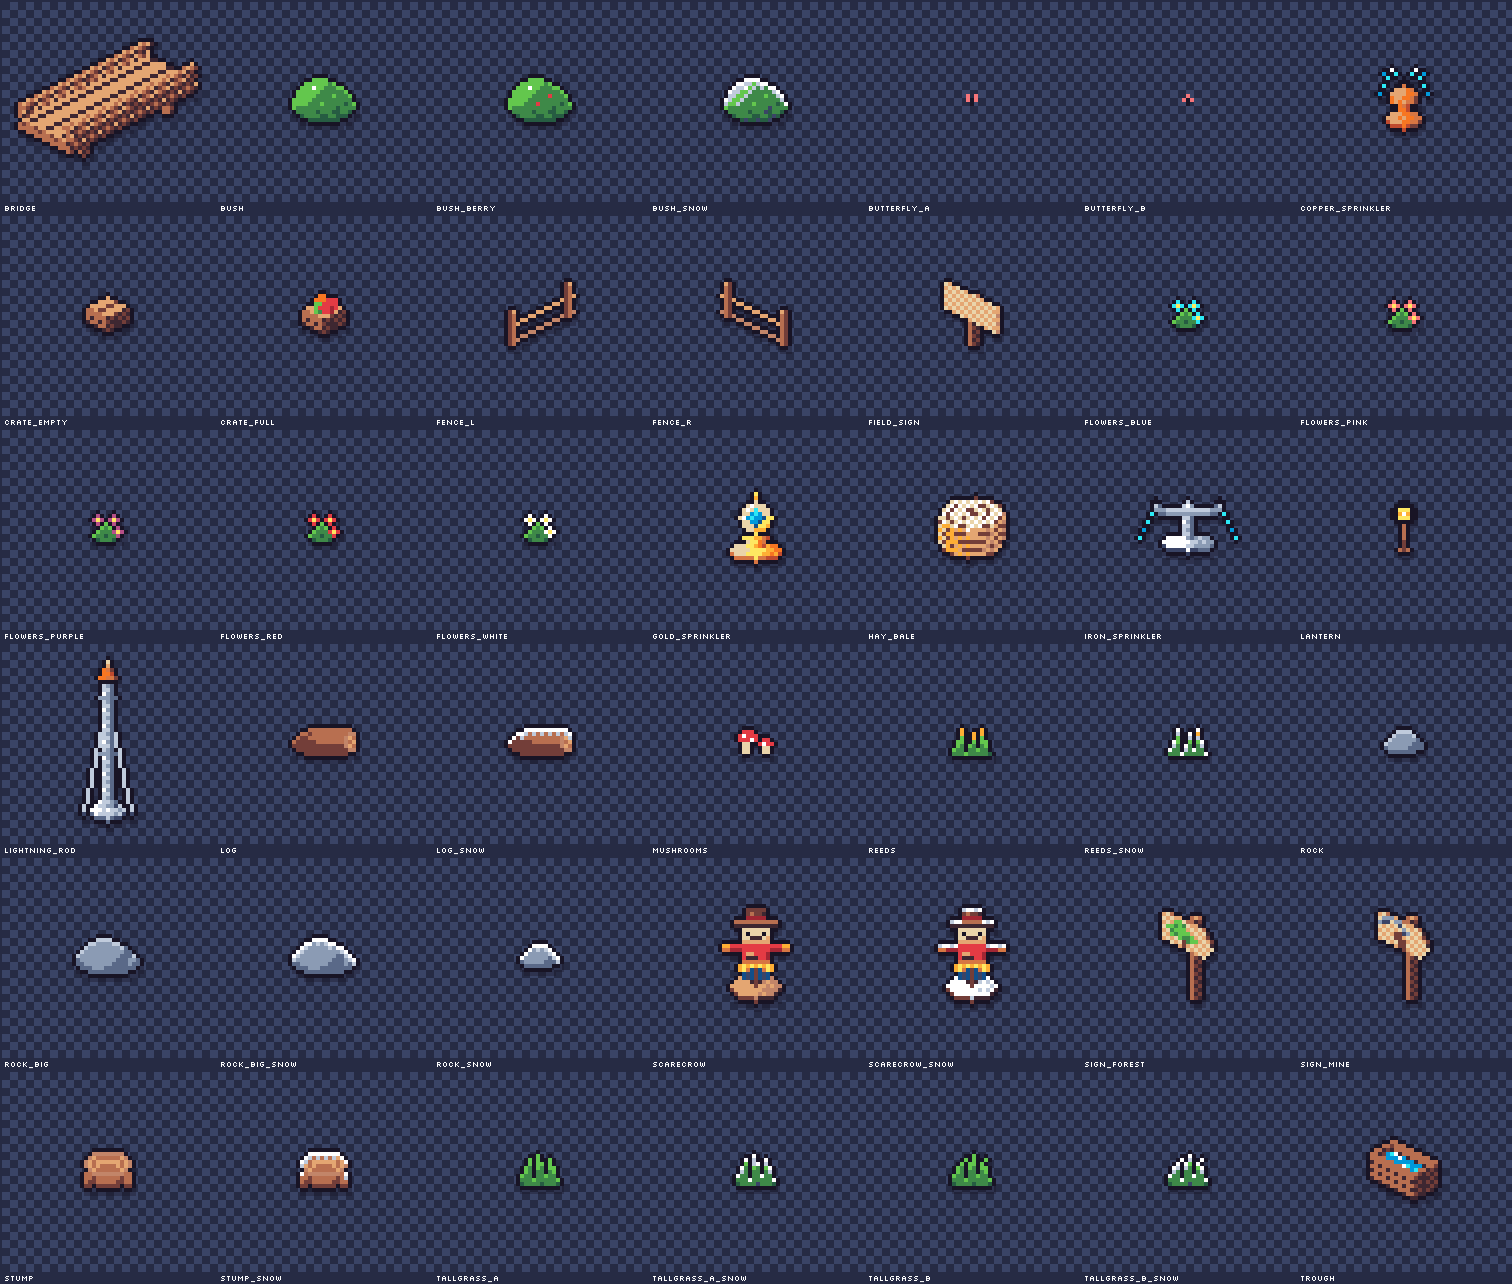
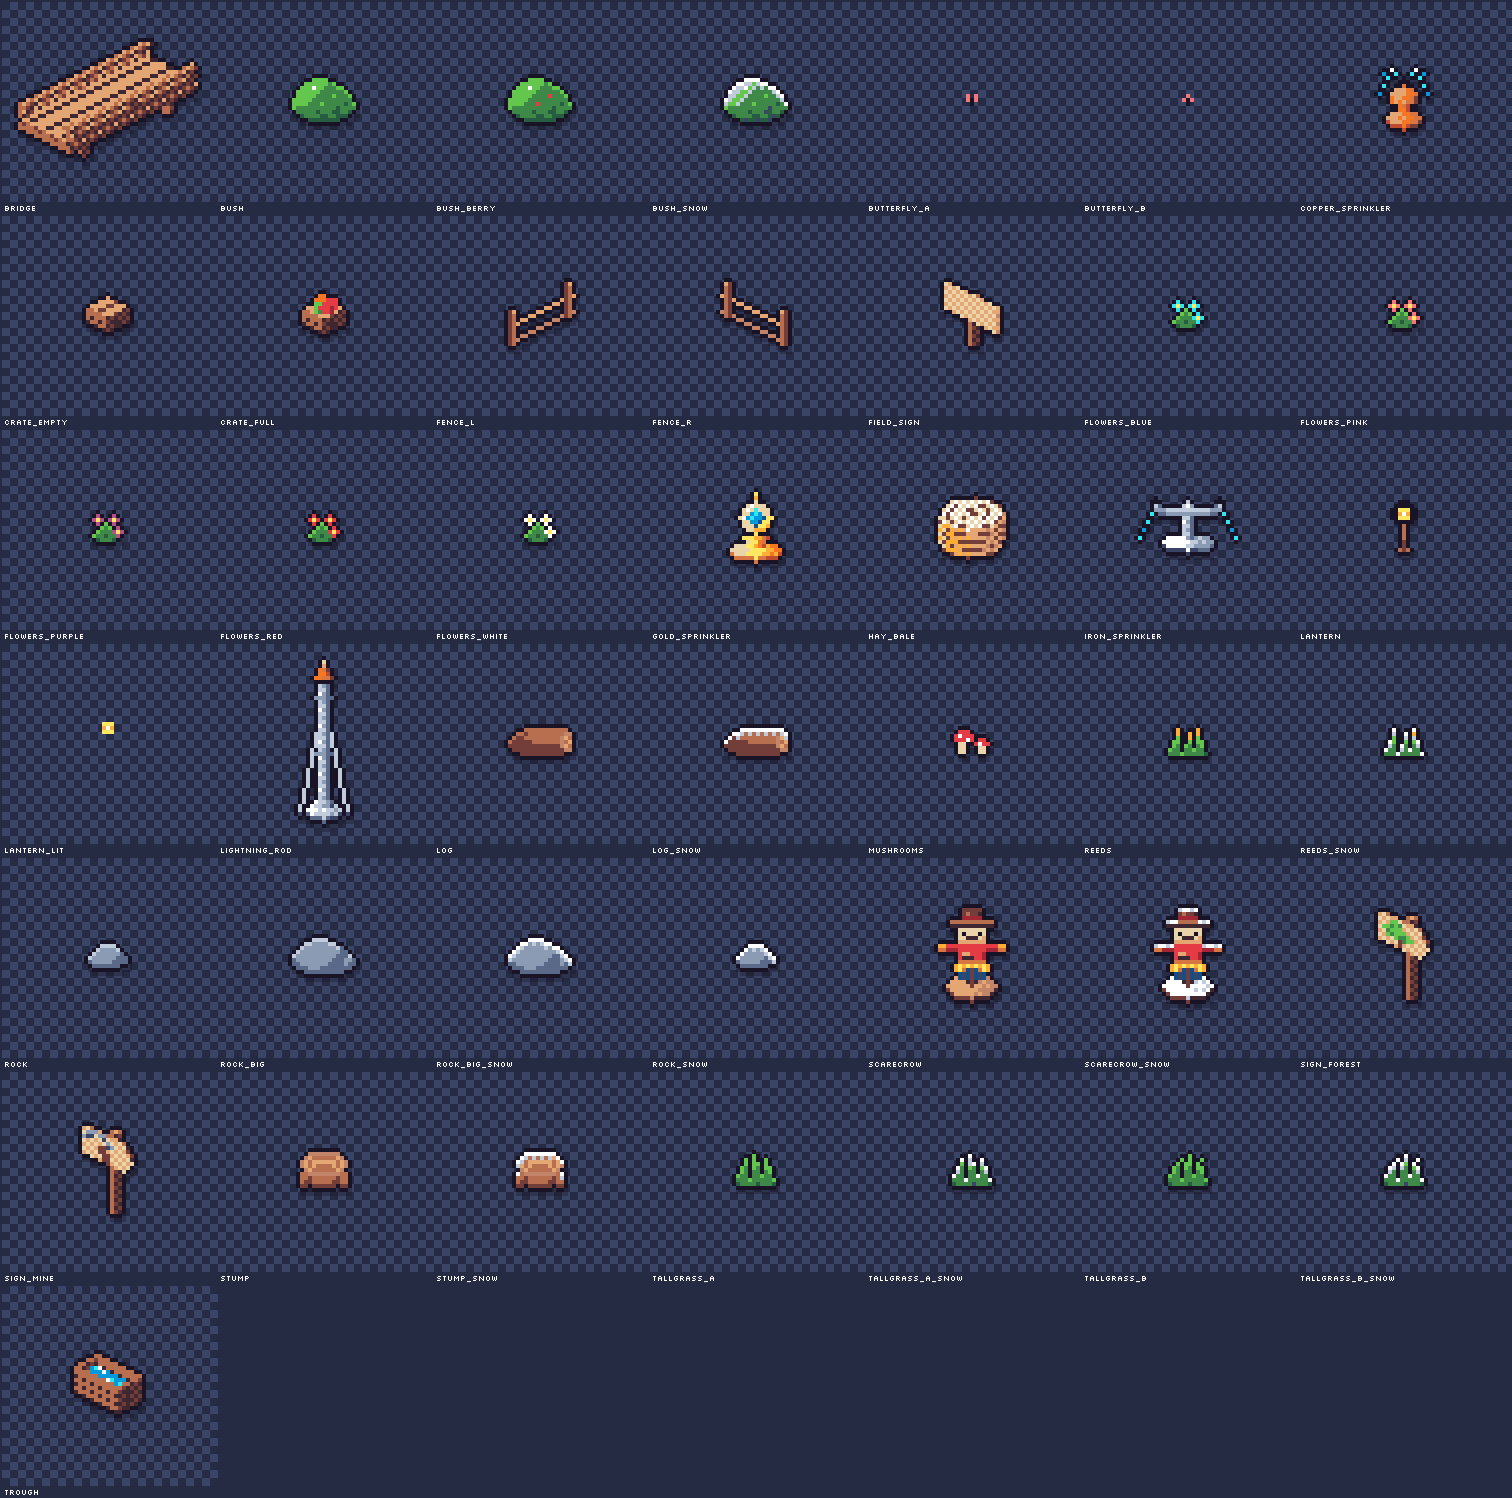
Playtest round 2 fixes: toasts wrap to two lines, field level and price on the sign board, small smooth lamp halos with lit lamp glass and windows drawn over the night (night.py overlays), build panel art below the title; round 2 decisions recorded
Claude-Session: https://claude.ai/code/session_01WzqNnDX2S9CAE6QnGepdXg

diff --git a/farm-game/app/src/main/kotlin/com/ditherfarm/ui/FarmScreen.kt b/farm-game/app/src/main/kotlin/com/ditherfarm/ui/FarmScreen.kt
@@ -393,10 +393,11 @@ class FarmScreen(game: Game) : IsoMapScreen(game, groundSeed = 31), WorldListene
             list.add(y) {
                 val g = game.gfx
                 g.sprite(if (game.assets.has("deco/field_sign")) "deco/field_sign" else "trees/signpost", x, y)
+                // Written on the board: the field's letter, or its level or price while it is not yours.
                 if (world.blockOwned(b)) g.text(FieldLayout.name(b), x.toInt(), (y - 15).toInt(), Gfx.WHITE, align = 0)
                 else {
                     val locked = world.level < FieldLayout.UNLOCK[b]
-                    g.text(if (locked) "L${FieldLayout.UNLOCK[b]}" else Ui.compact(FieldLayout.PRICE[b]), x.toInt(), (y - 26).toInt(), if (locked) Gfx.GREY else Gfx.GOLD, align = 0)
+                    g.text(if (locked) "L${FieldLayout.UNLOCK[b]}" else Ui.compact(FieldLayout.PRICE[b]), x.toInt(), (y - 15).toInt(), if (locked) 0xFFC0CBDC.toInt() else Gfx.GOLD, align = 0)
                 }
             }
         }
@@ -473,7 +474,22 @@ class FarmScreen(game: Game) : IsoMapScreen(game, groundSeed = 31), WorldListene
     }
 
     override fun worldLights(out: MutableList<Lighting.Light>) {
-        for ((c, r) in lanterns) out += Lighting.Light(Iso.x(c, r).toFloat(), Iso.centerY(c, r).toFloat() - 8, 28)
+        // A small halo round each lamp head; no pool painted on the ground.
+        for ((c, r) in lanterns) out += Lighting.Light(Iso.x(c, r).toFloat(), Iso.centerY(c, r).toFloat() - LAMP_HEAD, 9, round = true)
+    }
+
+    override fun drawEmissive(g: Gfx, night: Float) {
+        val a = (night * 255).toInt()
+        for ((c, r) in lanterns) {
+            val x = Iso.x(c, r).toFloat(); val y = Iso.centerY(c, r).toFloat()
+            if (inView(x, y)) g.sprite("deco/lantern_lit", x, y, a)
+        }
+        // Lit windows in the village and the bunkhouse.
+        val houses = FarmMap.COTTAGES.mapIndexed { k, t -> t to "buildings/cottage_" + "abc"[k % 3] } + (FarmMap.BUNKHOUSE to "buildings/cottage_c")
+        for ((t, sprite) in houses) {
+            val x = Iso.x(t.first, t.second).toFloat(); val y = Iso.centerY(t.first, t.second).toFloat()
+            if (inView(x, y, 48f) && game.assets.has("${sprite}_lit")) g.sprite("${sprite}_lit", x, y, a)
+        }
     }
 
     override fun drawHud(g: Gfx) {
@@ -826,6 +842,8 @@ class FarmScreen(game: Game) : IsoMapScreen(game, groundSeed = 31), WorldListene
         val GH_R0 = FarmMap.GREENHOUSE.second
         const val GH_WALL = 22f
         const val GREENHOUSE_LEVEL = 12
+        /** Height of a lantern's glass above its foot. */
+        const val LAMP_HEAD = 11f
         val MERCHANT_TILE = FarmMap.MERCHANT
         private fun key(c: Int, r: Int) = c.toLong() shl 32 or (r.toLong() and 0xFFFFFFFF)
     }

diff --git a/farm-game/app/src/main/kotlin/com/ditherfarm/engine/Atmosphere.kt b/farm-game/app/src/main/kotlin/com/ditherfarm/engine/Atmosphere.kt
@@ -39,7 +39,8 @@ class Lighting {
     /** Darkness 0..1 for a tint from [ambient], used to decide whether lamps are lit. */
     fun darkness(tint: Int): Float = (tint ushr 24) / 255f
 
-    class Light(var x: Float, var y: Float, var radius: Int, var warm: Boolean = true)
+    /** A light in buffer pixels; [round] lights are a halo in the air (lamp heads), the rest a pool on the ground. */
+    class Light(var x: Float, var y: Float, var radius: Int, var warm: Boolean = true, var round: Boolean = false)
 
     /**
      * Applies lighting to [target] (already holding the world). Lights are in buffer pixels.
@@ -51,13 +52,13 @@ class Lighting {
             val lc = ensure(w, h)
             lc.drawColor(tint, PorterDuff.Mode.SRC)
             if (dark > 0.25f) for (l in lights) {
-                val m = mask(l.radius)
+                val m = mask(l.radius, l.round)
                 lc.drawBitmap(m, l.x - l.radius, l.y - l.radius, cut)
             }
             target.drawBitmap(layer!!, 0f, 0f, plain)
             if (dark > 0.25f) for (l in lights) if (l.warm) {
-                glow.alpha = (22 * dark).toInt()
-                target.drawBitmap(mask(l.radius), l.x - l.radius, l.y - l.radius, glow)
+                glow.alpha = (40 * dark).toInt()
+                target.drawBitmap(mask(l.radius, l.round), l.x - l.radius, l.y - l.radius, glow)
             }
         }
         if (flash > 0f) {
@@ -79,20 +80,17 @@ class Lighting {
         return layerCanvas!!
     }
 
-    /** Round light with a Bayer-dithered falloff; opaque = full light. */
-    private fun mask(r: Int): Bitmap = lightMasks.getOrPut(r) {
+    /** Light with a smooth falloff (opaque = full light): a round halo, or iso-squashed to lie on the ground. */
+    private fun mask(r: Int, round: Boolean): Bitmap = lightMasks.getOrPut(if (round) -r else r) {
         val size = r * 2
         val b = Bitmap.createBitmap(size, size, Bitmap.Config.ARGB_8888)
-        val bayer = intArrayOf(0, 8, 2, 10, 12, 4, 14, 6, 3, 11, 1, 9, 15, 7, 13, 5)
         for (y in 0 until size) for (x in 0 until size) {
-            // Iso-squashed circle so pools of light sit flat on the ground.
             val dx = (x - r + 0.5f) / r
-            val dy = (y - r + 0.5f) / (r * 0.75f)
+            val dy = (y - r + 0.5f) / (if (round) r.toFloat() else r * 0.75f)
             val d = dx * dx + dy * dy
             if (d >= 1f) continue
-            val level = ((1f - d) * 22f).toInt()
-            val on = bayer[(y % 4) * 4 + (x % 4)] < level
-            if (on) b.setPixel(x, y, 0xFFFF9040.toInt())
+            val a = ((1f - d) * (1f - d) * 255f).toInt().coerceIn(0, 255)
+            b.setPixel(x, y, (a shl 24) or 0xFF9040)
         }
         b
     }

diff --git a/farm-game/app/src/main/kotlin/com/ditherfarm/ui/Hud.kt b/farm-game/app/src/main/kotlin/com/ditherfarm/ui/Hud.kt
@@ -28,7 +28,7 @@ class Hud(private val game: Game) {
     val topHeight = 34
     val bottomHeight = 46
 
-    fun toast(text: String) { toastText = text; toastTime = 2.2f }
+    fun toast(text: String) { toastText = text; toastTime = if (text.length > 34) 3.4f else 2.2f }
 
     /** Shows a tutorial tip once per save. */
     fun tip(key: String, text: String) {
@@ -116,12 +116,15 @@ class Hud(private val game: Game) {
         val tipLines = if (tip != null && tipVisible) wrap(tip, w - 40) else emptyList()
         val tipH = if (tipLines.isEmpty()) 0 else 12 + tipLines.size * 10 + 6
         // Toasts sit just above the nav bar (and above any tip), clear of HUD chips and panel titles.
+        // Long ones wrap (at most two lines) so nothing runs off the screen edges.
         toastText?.let { text ->
             if (toastTime > 0) {
-                val tw = g.textWidth(text) + 14
-                val y = h - game.engine.safeBottom - bottomHeight - tipLift - tipH - 18
-                ui.pill(w / 2 - tw / 2, y, tw, 14)
-                g.text(text, w / 2, y + 3, Gfx.WHITE, align = 0)
+                val lines = wrap(text, w - 36).take(2)
+                val tw = lines.maxOf { g.textWidth(it) } + 14
+                val th = 4 + lines.size * 10
+                val y = h - game.engine.safeBottom - bottomHeight - tipLift - tipH - 8 - th
+                ui.pill(w / 2 - tw / 2, y, tw, th)
+                lines.forEachIndexed { i, l -> g.text(l, w / 2, y + 3 + i * 10, Gfx.WHITE, align = 0) }
             }
         }
         if (tip != null && tipVisible) {

diff --git a/farm-game/app/src/main/kotlin/com/ditherfarm/ui/IsoMapScreen.kt b/farm-game/app/src/main/kotlin/com/ditherfarm/ui/IsoMapScreen.kt
@@ -81,6 +81,9 @@ abstract class IsoMapScreen(protected val game: Game, private val groundSeed: In
     /** Light sources in world pixels (lanterns, furnaces, mine lamps). Add new Light objects each call. */
     open fun worldLights(out: MutableList<Lighting.Light>) {}
 
+    /** Glowing parts drawn over the night tint in world space; [night] 0..1 is how dark it is. */
+    open fun drawEmissive(g: Gfx, night: Float) {}
+
     abstract fun drawHud(g: Gfx)
 
     /** World-pixel tap before tile picking (e.g. corners between plots); return true if handled. */
@@ -136,7 +139,17 @@ abstract class IsoMapScreen(protected val game: Game, private val groundSeed: In
             l.y = (l.y - cam.y) * cam.zoom
             l.radius *= cam.zoom
         }
-        lighting.apply(c, game.engine.w, game.engine.h, lighting.ambient(hour()), lights, weather.flash)
+        val tint = lighting.ambient(hour())
+        lighting.apply(c, game.engine.w, game.engine.h, tint, lights, weather.flash)
+        // Things that glow (lit windows, lamp glass) go over the night tint.
+        val night = ((lighting.darkness(tint) - 0.25f) / 0.4f).coerceIn(0f, 1f)
+        if (night > 0f) {
+            c.save()
+            c.translate((-cam.snapX() + shake).toFloat(), -cam.snapY().toFloat())
+            c.scale(cam.zoom.toFloat(), cam.zoom.toFloat())
+            drawEmissive(g, night)
+            c.restore()
+        }
         weather.draw(g, game.engine.w, game.engine.h)
         fx.drawText(g, { (it - cam.x) * cam.zoom }, { (it - cam.y) * cam.zoom })
 

diff --git a/farm-game/app/src/main/kotlin/com/ditherfarm/ui/Panels.kt b/farm-game/app/src/main/kotlin/com/ditherfarm/ui/Panels.kt
@@ -488,9 +488,11 @@ class Panels(private val game: Game, private val hud: Hud) {
     fun build(id: String): Boolean {
         val def = world.data.buildings[id] ?: return false
         val rows = def.cost.size
-        val (x, y, pw, ph) = frame("BUILD ${def.name.uppercase()}", 92 + rows * 14, pw = 210).toList()
+        // The art stands below the title; tall buildings (Windmill, Silo) make the panel taller.
+        val art = game.assets[buildingSprite(id)]
+        val (x, y, pw, ph) = frame("BUILD ${def.name.uppercase()}", maxOf(92 + rows * 14, 24 + art.bmp.height + 46), pw = 210).toList()
         if (closeButton(x, y, pw)) return false
-        g.sprite(buildingSprite(id), (x + 30).toFloat(), (y + 46).toFloat())
+        g.sprite(art, (x + 30).toFloat(), (y + 22 + art.ay).toFloat())
         def.cost.entries.forEachIndexed { i, (k, v) ->
             val ry = y + 26 + i * 14
             val have = if (k == "coins") world.state.coins else world.count(k, anyQuality = true)

diff --git a/farm-game/app/src/test/kotlin/com/ditherfarm/shots/ScreenshotTest.kt b/farm-game/app/src/test/kotlin/com/ditherfarm/shots/ScreenshotTest.kt
@@ -120,6 +120,21 @@ class ScreenshotTest {
         })
     }
 
+    /** Clear night by the village: small lamp halos and lit windows, no light pools. */
+    @Test fun farmNight() {
+        render("farm_night", seconds = 0.5f, setup = { g ->
+            g.world.state.minutes = GameTime.of(1, Season.SPRING, 2, 22.5).minutes
+            g.world.state.lastDayRolled = g.world.time.dayIndex
+            g.world.state.weather = Weather.SUNNY
+            g.farm.centerOnTile(12, 22)
+        })
+    }
+
+    /** A long toast wraps instead of running off the screen. */
+    @Test fun longToast() {
+        render("toast_long", seconds = 0.3f, setup = { g -> g.farm.toast("The truck is empty. Farmhands fill it from fields set to Truck.") })
+    }
+
     @Test fun farmGrown() {
         render("farm_grown", seconds = 1f, setup = { g ->
             val w = g.world

diff --git a/farm-game/Tools/ArtGen/pixel/night.py b/farm-game/Tools/ArtGen/pixel/night.py
@@ -1,0 +1,76 @@
+"""Night overlays (folders "buildings", "deco"): only the parts that glow after dark, drawn over
+the night tint so they stay bright. <name>_lit has the same size and pivot as <name>.
+
+  cottage_a/b/c_lit   the window panes, warm instead of blue: the cottages are ray-cast again
+                      with every pane in a marker colour, so frames and walls still hide them
+  lantern_lit         the lantern's glass
+"""
+import json
+import os
+import sys
+
+sys.path.insert(0, os.path.dirname(os.path.abspath(__file__)))
+from _pix import E, Sprites, new  # noqa: E402
+
+HERE = os.path.dirname(os.path.abspath(__file__))
+PAD = 2   # finish() padding of the daytime sprites
+MARK = "pink_r"
+# Daytime glass tone -> lit tone.
+WARM = {"slate": "amber", "blue_d": "amber", "blue": "yellow", "cyan": "cream"}
+RGB = {v[:3]: k for k, v in E.items()}
+
+
+def village():
+    path = os.path.join(HERE, "village.py")
+    src = open(path).read()
+    src = src[: src.rstrip().rfind("main()")]
+    ns = {"__file__": path, "__name__": "night_village"}
+    exec(compile(src, path, "exec"), ns)
+    return ns
+
+
+def windows(ns, fn):
+    """(overlay image, pivot) for one cottage drawn by village.py's fn()."""
+    day = ns["render"](fn())
+    x0, y0, x1, y1 = day.getbbox()
+    glass = ns["GLASS"]
+    ns["GLASS"] = [MARK] * len(glass)
+    marked = ns["render"](fn())
+    ns["GLASS"] = glass
+    out = new(x1 - x0 + PAD * 2, y1 - y0 + PAD * 2)
+    src, mk, dst = day.load(), marked.load(), out.load()
+    for y in range(y0, y1):
+        for x in range(x0, x1):
+            if mk[x, y][3] and mk[x, y][:3] == E[MARK][:3]:
+                tone = WARM.get(RGB.get(src[x, y][:3]), "yellow")
+                dst[x - x0 + PAD, y - y0 + PAD] = E[tone]
+    return out, (ns["CX"] - x0 + PAD, ns["CY"] - y0 + PAD)
+
+
+def lamp_glass(art):
+    from PIL import Image
+    im = Image.open(os.path.join(art, "deco", "lantern.png")).convert("RGBA")
+    out = new(*im.size)
+    src, dst = im.load(), out.load()
+    keep = {E[c][:3] for c in ("yellow", "amber", "cream", "white")}
+    for y in range(im.height):
+        for x in range(im.width):
+            if src[x, y][3] and src[x, y][:3] in keep:
+                dst[x, y] = src[x, y]
+    return out
+
+
+def main():
+    art = sys.argv[1]
+    bld, deco = Sprites(art, "buildings"), Sprites(art, "deco")
+    ns = village()
+    for name in ("cottage_a", "cottage_b", "cottage_c"):
+        im, (ax, ay) = windows(ns, ns[name])
+        bld.save(name + "_lit", im, ax, ay)
+    manifest = json.load(open(os.path.join(art, "manifest.json")))
+    p = manifest["deco/lantern"]
+    deco.save("lantern_lit", lamp_glass(art), p["ax"], p["ay"])
+    print(json.dumps({**bld.pivots, **deco.pivots}))
+
+
+main()

diff --git a/farm-game/Docs/DECISIONS.md b/farm-game/Docs/DECISIONS.md
@@ -62,5 +62,16 @@ Answers the owner gave while scoping the game. `GAME_DESIGN.md` must follow thes
 - **Farmhand look:** style D3 "tall" (11x21 body, hand-placed pixels: collar, buttons, pocket, knee patches, boot soles), picked from five options (`Docs/farmhand_styles.png`).
 - **Audio:** sound effects vary in pitch and have variants; ambient loops (birds, wind, crickets, forest, mine drips); weather ambience (rain, thunder, snowy wind); lo-fi, very calm background music (replaces the earlier "SFX only"), with toggles.
 
+## Playtest round 2 (owner feedback)
+- **Fixes:** long toasts wrap to two lines; a locked or for-sale field shows its level or price on its sign board; street lamps get a small soft glow (no painted ground circle) and house windows light at night; tall art never covers panel titles.
+- **Energy:** planting, watering and harvesting are free; chopping and mining still cost energy.
+- **Unlocks (hybrid + guided):** one guided quest at a time (Grandpa's notebook) with a pointer and a reward. Tools, the quarry and mine, forest zones and machine blueprints unlock by doing (the stone axe within about 15 minutes, after chopping); machines also need their level. Levels still gate crops, machines and buildings, fields and farmhands, villagers and orders. Pace: level 5 on day 1, level 10 after about a week, level 20 near a month.
+- **Orders:** only ask for items the player can get right now with their current tools, buildings and zones, in amounts they can make.
+- **Tools:** stone tools at the Workbench; iron and gold tools at the village Blacksmith (opens with village tier 1, gold work from tier 2).
+- **Big goal: restore the valley.** Four whole-village tiers over about 3-4 weeks: wooden huts, stone, brick, concrete. Each tier rebuilds every house and road (dirt, gravel, cobbles, paved) and the village grows (4, 6, 8, 10 houses). Tiers are paid with bundles of goods plus coins, donated a bit at a time. Rewards: new villagers and orders, farm perks, and shops (tier 1 Seed shop and Blacksmith, tier 2 Carpenter and gold work, tier 3 Cafe). Art variations for the tiers are shown before they are built.
+- **Small goals:** a goal chip on the HUD shows a goal the player pins (a village bundle, an achievement, a field or building to save for, chores or the contract); three daily chores each real day with a streak; one truck contract each real week.
+- **Maps:** the Forest becomes a big map like the farm with a tree wall; the Mine surface and floors are filled (cliffs, cave walls) so no void shows.
+
 ## Later (not v1)
+- New areas opened by the village: a lake with fishing, a ranch with animals, an orchard hill, a beach.
 - Farm animals.
